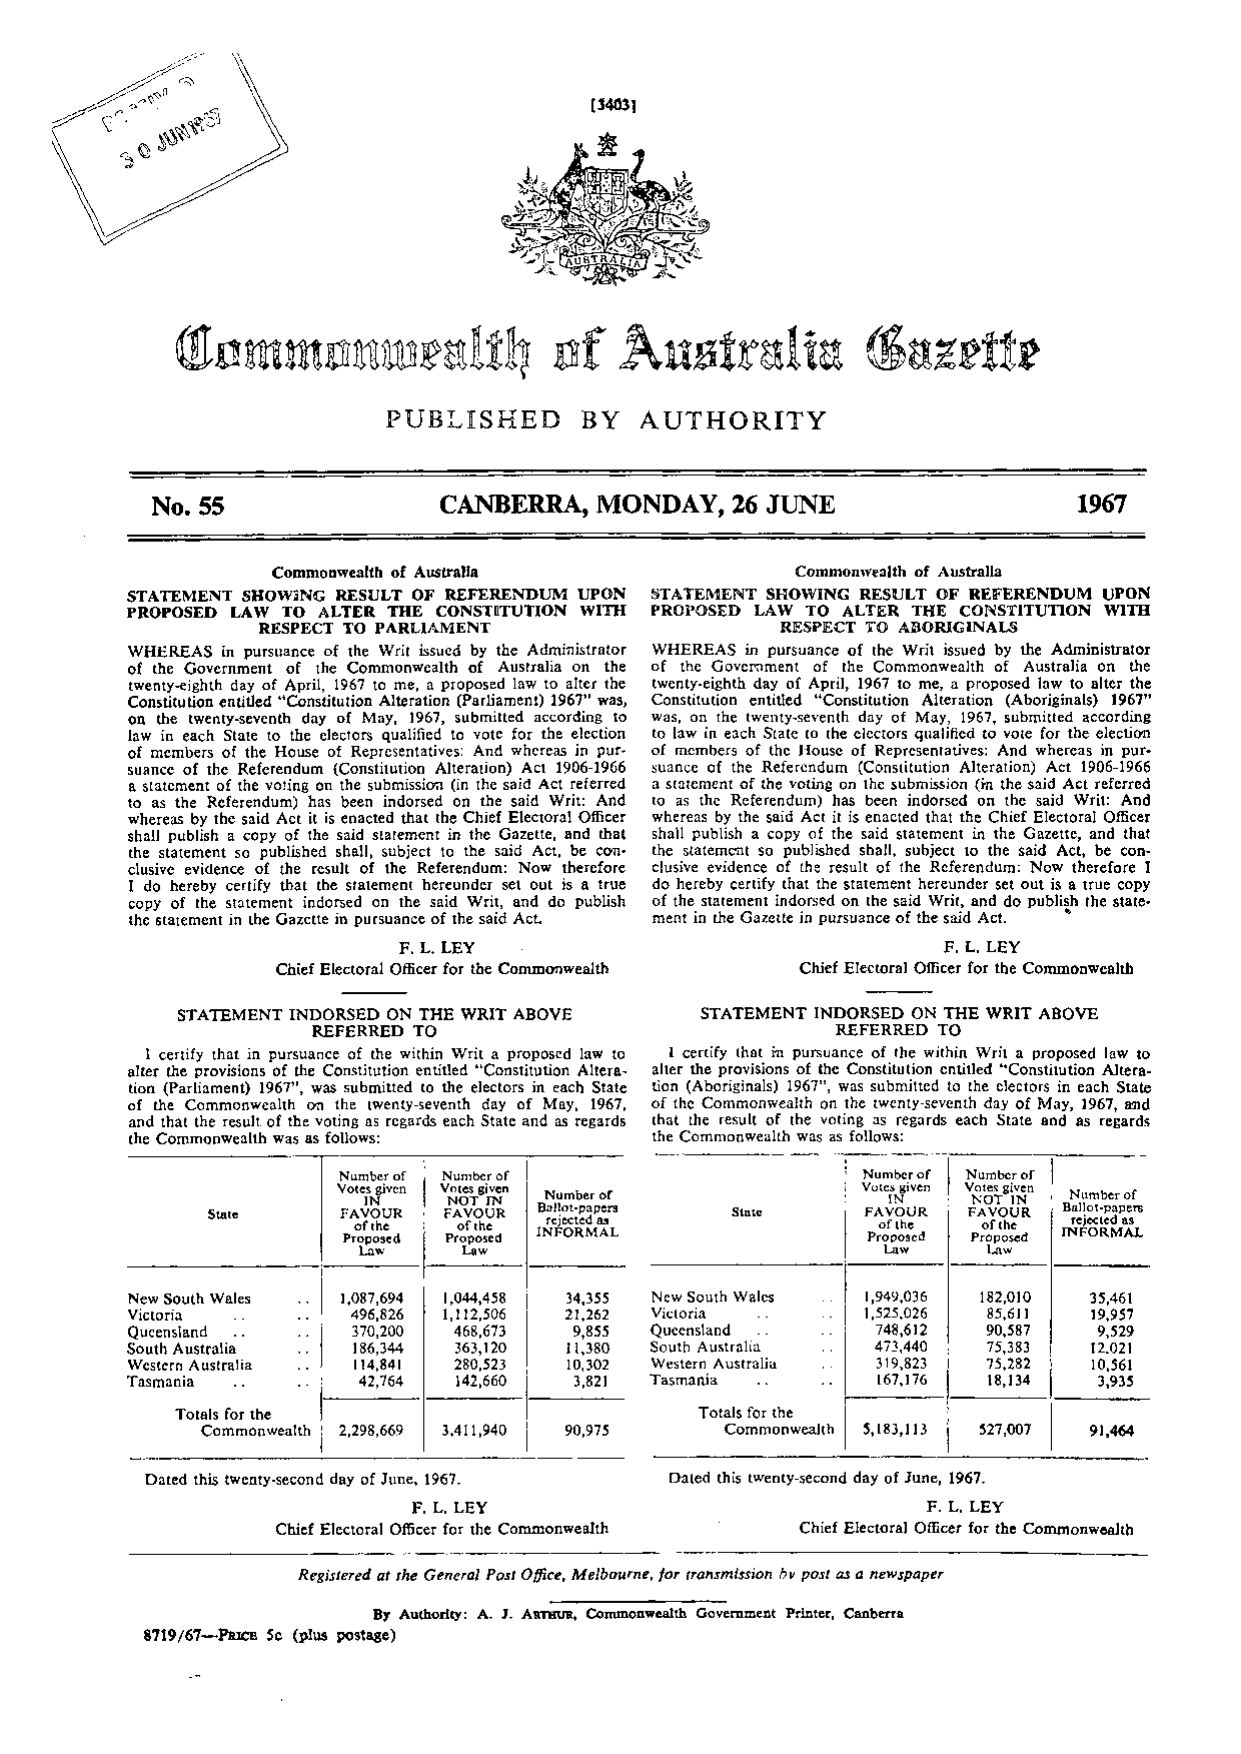
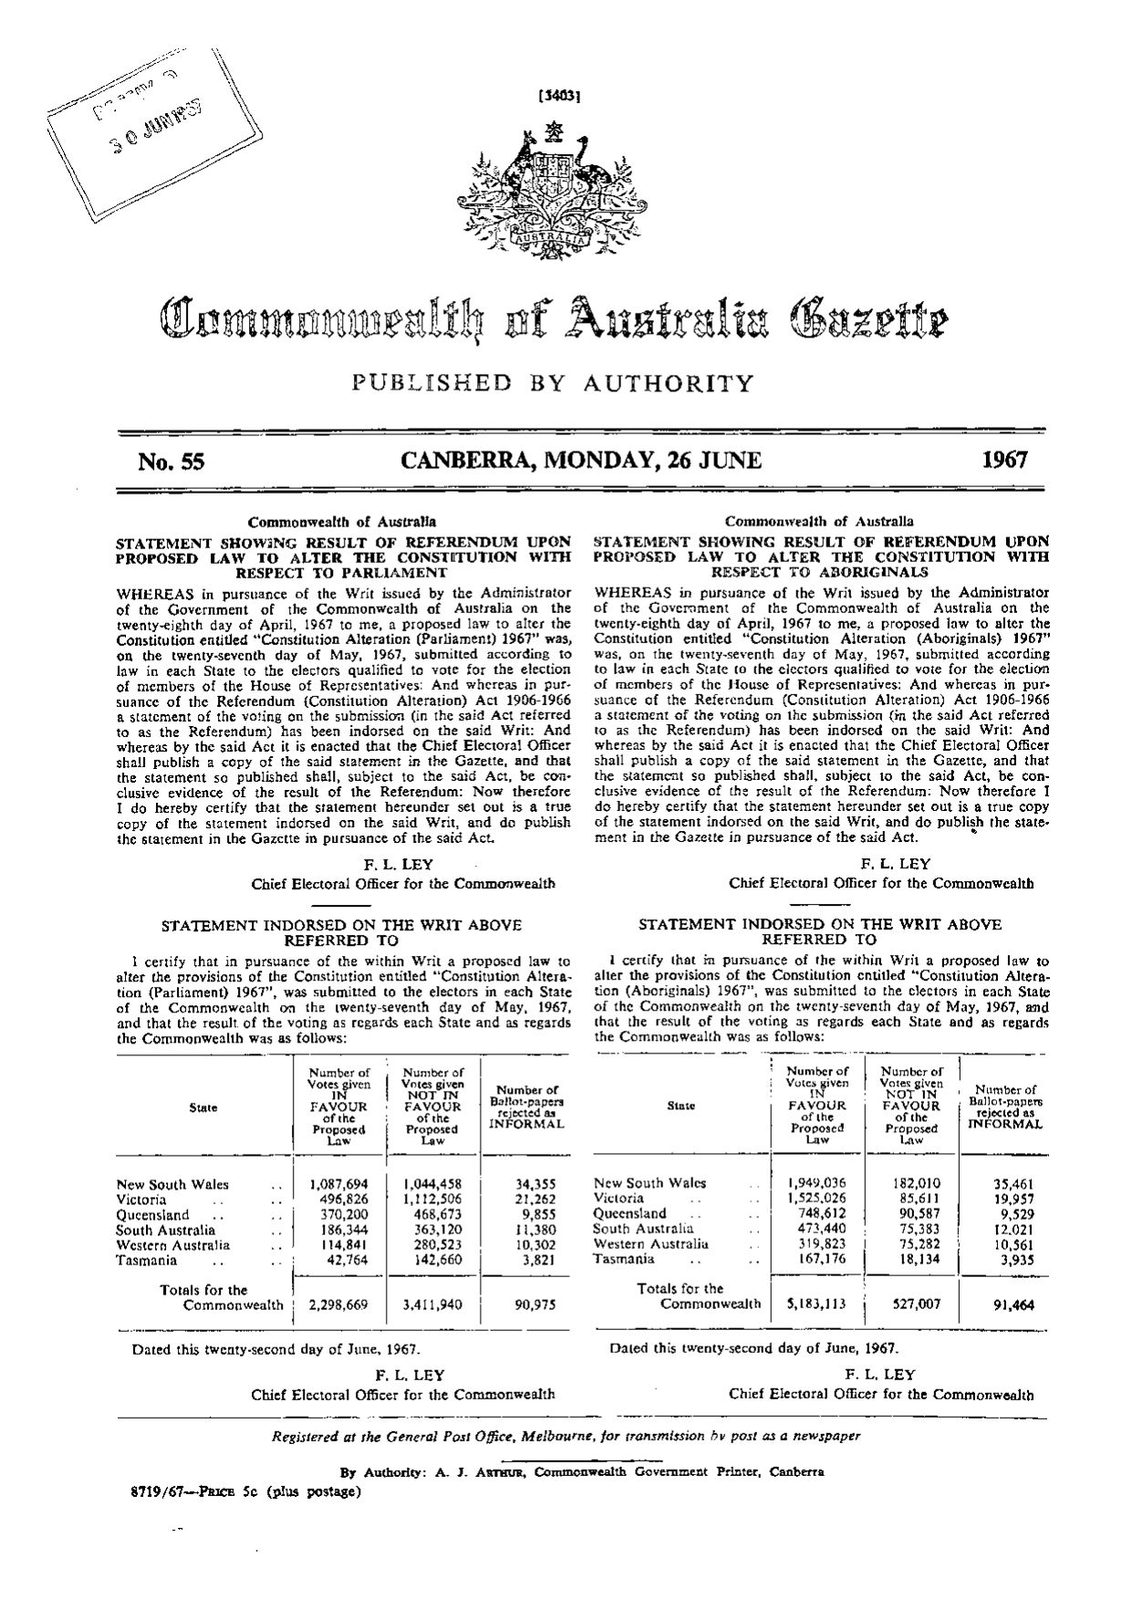
Fit images to the screen and add a Place and time map.
Cap pictures so they stay on phone and desktop screens without
stretching or sideways scrolling, and make portraits tap-to-enlarge
in a lightbox. Recompress large exhibit files. Case apps that had
no map or timeline get a simple Place and time widget using only
places and dates already in the file.

The Freedom Ride bus notebook page is unchanged.

diff --git a/assets/image-fit.css b/assets/image-fit.css
@@ -1,0 +1,138 @@
+/* Shared image fit for Reopen the Record apps.
+   Pictures stay on the screen, keep their aspect ratio, and can be enlarged.
+   Leaflet map tiles, book-reader leaves, and small UI marks are left alone. */
+
+img:not(.leaflet-tile):not(.leaflet-marker-icon):not(.leaflet-marker-shadow):not(.leaflet-marker-shadow){
+  max-width:100%;
+  height:auto;
+}
+
+/* Exhibit, document and zoom-target pictures: cap height so a phone can see the whole image. */
+.zoom img,
+.artefact-zoom > img,
+.cover-zoom img,
+.zoomart img,
+.card .pic img,
+.exhibit img,
+.journal-exhibit img,
+figure:not(.leaflet-container figure) > img,
+figure:not(.leaflet-container figure) > button > img,
+.pt-map{
+  max-width:100%;
+  max-height:70vh;
+  width:auto;
+  height:auto;
+  object-fit:contain;
+}
+
+@media (max-width:600px){
+  .zoom img,
+  .artefact-zoom > img,
+  .cover-zoom img,
+  .zoomart img,
+  .card .pic img,
+  .exhibit img,
+  .journal-exhibit img,
+  figure:not(.leaflet-container figure) > img,
+  figure:not(.leaflet-container figure) > button > img,
+  .pt-map{
+    max-height:60vh;
+  }
+}
+
+/* Reconstructed journal / artefact cards: scale the card to the screen, keep shape. */
+.journal-exhibit .artefact-zoom,
+.journal-exhibit .post,
+.artefact-card{
+  max-width:100%;
+  width:100%;
+  box-sizing:border-box;
+}
+.journal-exhibit .artefact-zoom .post{
+  width:min(560px,100%);
+  max-height:70vh;
+  overflow:auto;
+}
+
+/* Witness and portrait thumbnails stay compact, never overflow, never stretch. */
+.portrait-zoom{
+  max-width:100%;
+}
+.portrait-zoom img,
+.witness figure img{
+  display:block;
+  width:auto;
+  max-width:min(100%,10.5rem);
+  height:auto;
+  max-height:min(55vh,22rem);
+  object-fit:contain;
+}
+@media (max-width:760px){
+  .portrait-zoom img,
+  .witness figure img{
+    max-width:min(100%,8.5rem);
+    max-height:min(50vh,18rem);
+    margin-inline:auto;
+  }
+}
+
+/* Lightbox: the enlarged picture fits the viewport. Pinch/JS zoom may still scale it. */
+.lightbox-stage,
+.lb-stage,
+#lb-stage{
+  max-width:96vw;
+  max-height:92vh;
+  overflow:hidden;
+}
+.lightbox-stage img,
+#lightbox img,
+#lb-img,
+.lb img,
+.lb-stage img{
+  max-width:96vw !important;
+  max-height:88vh !important;
+  width:auto !important;
+  height:auto !important;
+  object-fit:contain !important;
+}
+
+/* QR, emblems and envelope stamps. */
+img.qr,
+.qr-end img,
+.envelope img,
+.cover-qr img,
+.start-card img{
+  max-width:100%;
+  height:auto;
+}
+
+/* Book reader pages keep their own leaf sizing. */
+.leaf img{
+  max-width:var(--page-max-w, 100%);
+  max-height:var(--page-max-h, 70dvh);
+  width:auto;
+  height:auto;
+  object-fit:contain;
+}
+
+/* Leaflet must not inherit height caps. */
+.leaflet-container img,
+.leaflet-container svg{
+  max-width:none;
+  max-height:none;
+}
+
+/* Casebook cover image: keep the whole cover on screen. */
+.cover-book img{
+  max-width:100%;
+  max-height:70vh;
+  width:auto;
+  height:auto;
+  object-fit:contain;
+  margin-inline:auto;
+}
+
+/* Long source URLs and wide strings must not force the page sideways. */
+.src, .note, .cite, .wrap, .panel, p, li, figcaption {
+  overflow-wrap: anywhere;
+}

diff --git a/index.html b/index.html
@@ -13,6 +13,7 @@
 <link rel="stylesheet" href="assets/gold.css">
 <link rel="stylesheet" href="assets/frontier.css">
 <link rel="stylesheet" href="assets/anation.css">
+  <link rel="stylesheet" href="assets/image-fit.css">
 </head>
 <body data-store="after-the-war-v1" data-aliases='{"citizens": "cit", "yirrkala": "yirr", "wavehill": "wave", "referendum": "ref", "tentembassy": "later", "custody": "later"}'>
 <a class="skip" href="#main">Skip to the investigation</a>
